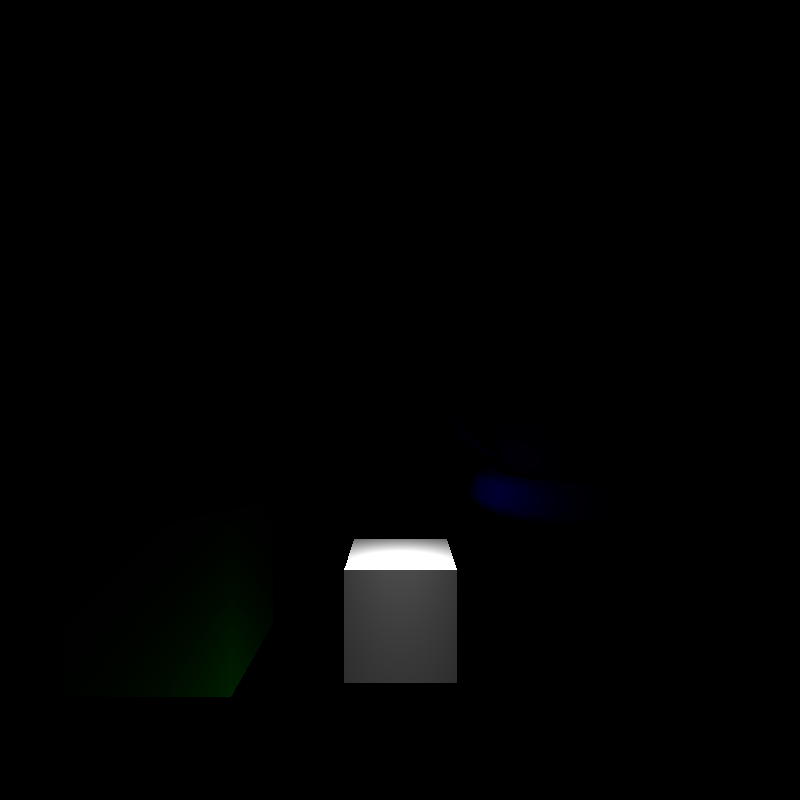
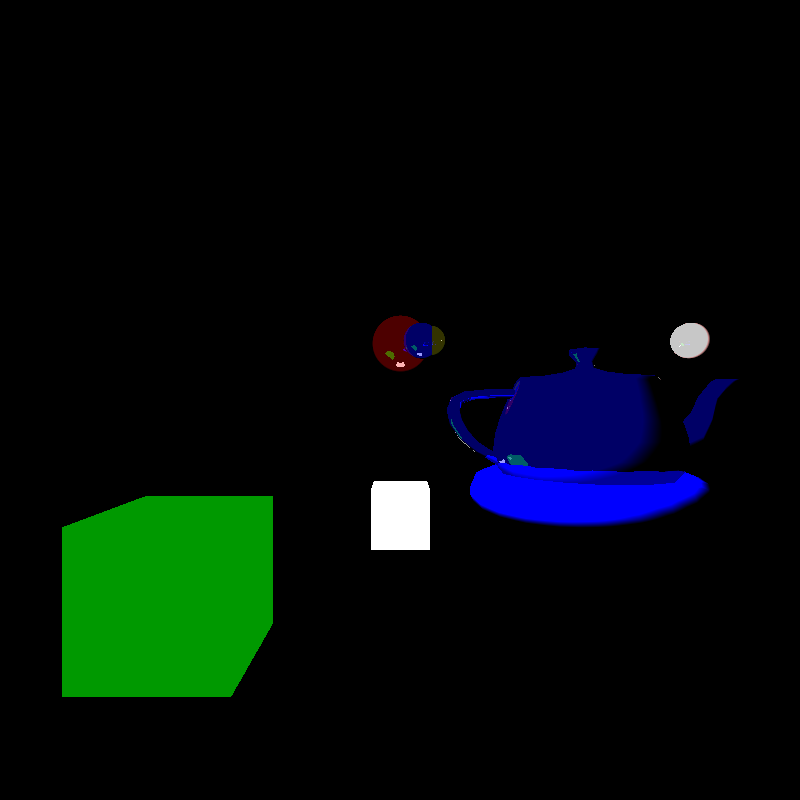
Reflection update

diff --git a/src/edu/up/isgc/cg/raytracer/Raytracer.java b/src/edu/up/isgc/cg/raytracer/Raytracer.java
@@ -33,26 +33,27 @@ public class Raytracer {
 
         Scene scene02 = new Scene();
         scene02.setCamera(new Camera(new Vector3D(0, 0, -4), 60, 60, 800, 800, 0.6, 50.0));
-        //scene02.addLight(new PointLight(new Vector3D(0.0, 1.0, 0.0),Color.WHITE, 0.8));
-        scene02.addLight(new SpotLight(
-                new Vector3D(0, 1.0, 0),          // Position (above the scene)
-                new Vector3D(0, -1, 0.2),        // Direction (slightly angled forward)
-                Color.WHITE,                     // Light color
-                1.5,                             // Intensity
-                Math.toRadians(60),              // 30-degree cutoff angle (converted to radians)
-                15                               // Falloff exponent
+        scene02.addLight(new PointLight(new Vector3D(0.0, 1.0, 0.0),Color.WHITE, 5));
+        //scene02.addLight(new PointLight(new Vector3D(0.0, 0.0, 0.0),Color.WHITE, 0.8));
+        /*scene02.addLight(new SpotLight(
+                new Vector3D(0, 1.0, 0),
+                new Vector3D(0, -1, 0.2),
+                Color.WHITE,
+                10,
+                Math.toRadians(160),
+                15
         ));
         /*scene02.addLight(new DirectionalLight(new Vector3D(0.0, 0.0, 1.0), Color.WHITE, 0.8));
         scene02.addLight(new DirectionalLight(new Vector3D(0.0, -0.1, 0.1), Color.WHITE, 0.2));
         scene02.addLight(new DirectionalLight(new Vector3D(-0.2, -0.1, 0.0), Color.WHITE, 0.2));*/
-        scene02.addObject(new Sphere(new Vector3D(0.0, 1.0, 5.0), 0.5, Color.RED));
-        scene02.addObject(new Sphere(new Vector3D(0.5, 1.0, 4.5), 0.25, new Color(200, 255, 0)));
-        scene02.addObject(new Sphere(new Vector3D(0.35, 1.0, 4.5), 0.3, Color.BLUE));
-        scene02.addObject(new Sphere(new Vector3D(4.85, 1.0, 4.5), 0.3, Color.PINK));
+        scene02.addObject(new Sphere(new Vector3D(0.0, 1.0, 5.0), 0.5, Color.RED, 0.7));
+        scene02.addObject(new Sphere(new Vector3D(0.5, 1.0, 4.5), 0.25, new Color(200, 255, 0), 0.8));
+        scene02.addObject(new Sphere(new Vector3D(0.35, 1.0, 4.5), 0.3, Color.BLUE, 0.6));
+        scene02.addObject(new Sphere(new Vector3D(4.85, 1.0, 4.5), 0.3, Color.PINK, 0.22));
         scene02.addObject(new Sphere(new Vector3D(2.85, 1.0, 304.5), 0.5, Color.BLUE));
-        scene02.addObject(OBJReader.getModel3D("Cube.obj", new Vector3D(0f, -2.5, 1.0), Color.WHITE));
-        scene02.addObject(OBJReader.getModel3D("CubeQuad.obj", new Vector3D(-3.0, -2.5, 3.0), Color.GREEN));
-        scene02.addObject(OBJReader.getModel3D("SmallTeapot.obj", new Vector3D(2.0, -1.0, 1.5), Color.BLUE));
+        scene02.addObject(OBJReader.getModel3D("Cube.obj", new Vector3D(0f, -2.5, 5), Color.WHITE));
+        scene02.addObject(OBJReader.getModel3D("CubeQuad.obj", new Vector3D(-3.0, -2.5, 3.0), Color.GREEN, 0.4));
+        scene02.addObject(OBJReader.getModel3D("SmallTeapot.obj", new Vector3D(2.0, -1.0, 1.5), Color.BLUE, 0.6));
         scene02.addObject(OBJReader.getModel3D("Ring.obj", new Vector3D(2.0, -1.0, 1.5), Color.BLUE));
 
         BufferedImage image = raytrace(scene02);
@@ -82,36 +83,88 @@ public class Raytracer {
                 double z = posRaytrace[i][j].getZ() + pos.getZ();
 
                 Ray ray = new Ray(mainCamera.getPosition(), new Vector3D(x, y, z));
-                Intersection closestIntersection = raycast(ray, objects, null,
-                        new double[]{cameraZ + nearFarPlanes[0], cameraZ + nearFarPlanes[1]});
-
-                Color pixelColor = Color.BLACK;
-                if (closestIntersection != null) {
-                    Color objColor = closestIntersection.getObject().getColor();
-
-                    for (Light light : lights) {
-                        double nDotL = light.getNDotL(closestIntersection);
-                        Color lightColor = light.getColor();
-                        double intensity = light.getIntensity() * nDotL;
-
-                        double[] lightColors = new double[]{lightColor.getRed() / 255.0, lightColor.getGreen() / 255.0, lightColor.getBlue() / 255.0};
-                        double[] objColors = new double[]{objColor.getRed() / 255.0, objColor.getGreen() / 255.0, objColor.getBlue() / 255.0};
-                        for (int colorIndex = 0; colorIndex < objColors.length; colorIndex++) {
-                            objColors[colorIndex] *= intensity * lightColors[colorIndex];
-                        }
-
-                        Color diffuse = new Color((float) Math.clamp(objColors[0], 0.0, 1.0),
-                                (float) Math.clamp(objColors[1], 0.0, 1.0),
-                                (float) Math.clamp(objColors[2], 0.0, 1.0));
-
-                        pixelColor = addColor(pixelColor, diffuse);
-                    }
-                }
+                Color pixelColor = traceRay(ray, objects, lights, new double[]{cameraZ + nearFarPlanes[0], cameraZ + nearFarPlanes[1]}, 0, null);
                 image.setRGB(i, j, pixelColor.getRGB());
             }
         }
 
         return image;
+    }
+
+    private static Color traceRay(Ray ray, List<Object3D> objects, List<Light> lights, double[] clippingPlanes, int depth, Object3D caster) {
+        final int MAX_REFLECTIONS = 5;
+        if (depth > MAX_REFLECTIONS) {
+            return Color.BLACK;
+        }
+
+        Intersection closestIntersection = raycast(ray, objects, caster, clippingPlanes);
+        if (closestIntersection == null) {
+            return Color.BLACK;
+        }
+
+        Color objColor = closestIntersection.getObject().getColor();
+        Color diffuseColor = Color.BLACK;
+
+        for (Light light : lights) {
+            double nDotL = light.getNDotL(closestIntersection);
+            Color lightColor = light.getColor();
+            double intensity = light.getIntensity() * nDotL;
+
+            double[] lightColors = new double[]{
+                    lightColor.getRed() / 255.0,
+                    lightColor.getGreen() / 255.0,
+                    lightColor.getBlue() / 255.0
+            };
+            double[] objColors = new double[]{
+                    objColor.getRed() / 255.0,
+                    objColor.getGreen() / 255.0,
+                    objColor.getBlue() / 255.0
+            };
+
+            for (int colorIndex = 0; colorIndex < objColors.length; colorIndex++) {
+                objColors[colorIndex] *= intensity * lightColors[colorIndex];
+            }
+
+            Color diffuse = new Color(
+                    (float) Math.clamp(objColors[0], 0.0, 1.0),
+                    (float) Math.clamp(objColors[1], 0.0, 1.0),
+                    (float) Math.clamp(objColors[2], 0.0, 1.0)
+            );
+
+            diffuseColor = addColor(diffuseColor, diffuse);
+        }
+
+        double reflectivity = closestIntersection.getObject().getReflectivity();
+        Color reflectedColor = Color.BLACK;
+
+        if (reflectivity > 0) {
+            Vector3D N = closestIntersection.getNormal();
+            Vector3D I = ray.getDirection();
+            double dot = Vector3D.dotProduct(I, N);
+            Vector3D R = Vector3D.substract(I, Vector3D.scalarMultiplication(N, 2 * dot));
+            R = Vector3D.normalize(R);
+
+            // Offset origin to prevent self-intersection
+            Vector3D offsetOrigin = Vector3D.add(closestIntersection.getPosition(), Vector3D.scalarMultiplication(N, 1e-4));
+            Ray reflectedRay = new Ray(offsetOrigin, R);
+
+            reflectedColor = traceRay(reflectedRay, objects, lights, null, depth + 1, closestIntersection.getObject());
+        }
+
+        Color diffusePart = multiplyColor(diffuseColor, (1 - reflectivity));
+        Color reflectedPart = multiplyColor(reflectedColor, reflectivity);
+
+        return addColor(diffusePart, reflectedPart);
+    }
+
+    public static Color multiplyColor(Color color, double factor) {
+        float red = (float) (color.getRed() / 255.0 * factor);
+        float green = (float) (color.getGreen() / 255.0 * factor);
+        float blue = (float) (color.getBlue() / 255.0 * factor);
+        red = (float) Math.clamp(red, 0.0, 1.0);
+        green = (float) Math.clamp(green, 0.0, 1.0);
+        blue = (float) Math.clamp(blue, 0.0, 1.0);
+        return new Color(red, green, blue);
     }
 
     public static Color addColor(Color original, Color otherColor) {

diff --git a/src/edu/up/isgc/cg/raytracer/tools/OBJReader.java b/src/edu/up/isgc/cg/raytracer/tools/OBJReader.java
@@ -170,4 +170,152 @@ public abstract class OBJReader {
         }
         return null;
     }
+
+    public static Model3D getModel3D(String path, Vector3D origin, Color color, double reflectivity) {
+        try {
+            BufferedReader reader = new BufferedReader(new FileReader(path));
+
+            List<Triangle> triangles = new ArrayList<>();
+            List<Vector3D> vertices = new ArrayList<>();
+            List<Vector3D> normals = new ArrayList<>();
+            String line;
+            int defaultSmoothingGroup = -1;
+            int smoothingGroup = defaultSmoothingGroup;
+            Map<Integer, List<Triangle>> smoothingMap = new HashMap<>();
+
+            while ((line = reader.readLine()) != null) {
+                if (line.startsWith("v ") || line.startsWith("vn ")) {
+                    String[] vertexComponents = line.split("(\\s)+");
+                    if (vertexComponents.length >= 4) {
+                        double x = Double.parseDouble(vertexComponents[1]);
+                        double y = Double.parseDouble(vertexComponents[2]);
+                        double z = Double.parseDouble(vertexComponents[3]);
+                        Vector3D vec = new Vector3D(x, y, z);
+                        if (line.startsWith("v ")) {
+                            vertices.add(vec);
+                        } else {
+                            normals.add(vec);
+                        }
+                    }
+                } else if (line.startsWith("f ")) {
+                    String[] faceComponents = line.split("(\\s)+");
+                    List<Integer> faceVertex = new ArrayList<>();
+                    List<Integer> faceNormals = new ArrayList<>();
+
+                    for (int i = 1; i < faceComponents.length; i++) {
+                        String[] infoVertex = faceComponents[i].split("/");
+                        if (infoVertex.length >= 1) {
+                            int vertexIndex = Integer.parseInt(infoVertex[0]);
+                            faceVertex.add(vertexIndex);
+                        }
+                        if (infoVertex.length >= 3) {
+                            int normalIndex = Integer.parseInt(infoVertex[2]);
+                            faceNormals.add(normalIndex);
+                        }
+                    }
+
+                    if (faceVertex.size() >= 3) {
+                        Vector3D[] triangleVertices = new Vector3D[faceVertex.size()];
+                        Vector3D[] triangleNormals = new Vector3D[faceNormals.size()];
+
+                        for (int i = 0; i < faceVertex.size(); i++) {
+                            triangleVertices[i] = vertices.get(faceVertex.get(i) - 1);
+                        }
+
+                        Vector3D[] arrangedTriangleVertices = null;
+                        Vector3D[] arrangedTriangleNormals = null;
+                        if(normals.size() > 0 && !faceNormals.isEmpty()) {
+                            for(int i = 0; i < faceNormals.size(); i++) {
+                                triangleNormals[i] = normals.get(faceNormals.get(i) - 1);
+                            }
+                            arrangedTriangleNormals = new Vector3D[]{triangleNormals[1], triangleNormals[0], triangleNormals[2]};
+                        }
+                        arrangedTriangleVertices = new Vector3D[]{triangleVertices[1], triangleVertices[0], triangleVertices[2]};
+
+                        Triangle tmpTriangle = new Triangle(arrangedTriangleVertices, arrangedTriangleNormals);
+                        triangles.add(tmpTriangle);
+
+                        List<Triangle> trianglesInMap = smoothingMap.get(smoothingGroup);
+                        if(trianglesInMap == null) {
+                            trianglesInMap = new ArrayList<>();
+                        }
+                        trianglesInMap.add(tmpTriangle);
+
+                        if (faceVertex.size() == 4) {
+                            arrangedTriangleVertices = new Vector3D[]{triangleVertices[2], triangleVertices[0], triangleVertices[3]};
+                            if(arrangedTriangleNormals != null){
+                                arrangedTriangleNormals = new Vector3D[]{triangleNormals[2], triangleNormals[0], triangleNormals[3]};
+                            }
+                            tmpTriangle = new Triangle(arrangedTriangleVertices, arrangedTriangleNormals);
+                            triangles.add(tmpTriangle);
+                            trianglesInMap.add(tmpTriangle);
+                        }
+
+                        if(smoothingGroup != defaultSmoothingGroup) {
+                            smoothingMap.put(smoothingGroup, trianglesInMap);
+                        }
+                    }
+                } else if(line.startsWith("s ")) {
+                    String[] smoothingComponents = line.split("(\\s)+");
+                    if(smoothingComponents.length > 1) {
+                        if(smoothingComponents[1].equals("off")){
+                            smoothingGroup = defaultSmoothingGroup;
+                        } else {
+                            try {
+                                smoothingGroup = Integer.parseInt(smoothingComponents[1]);
+                            } catch (NumberFormatException nfe){
+                                smoothingGroup = defaultSmoothingGroup;
+                            }
+                        }
+                    }
+                }
+            }
+            reader.close();
+
+            class NormalPair{
+                Vector3D normal;
+                int count;
+
+                public NormalPair() {
+                    normal = Vector3D.ZERO();
+                    count = 0;
+                }
+            }
+
+            //Smooth vertices normals
+            for (Integer key : smoothingMap.keySet()) {
+                Map<Vector3D, NormalPair> vertexMap = new HashMap<>();
+                List<Triangle> trianglesInMap = smoothingMap.get(key);
+                for (Triangle triangle : trianglesInMap) {
+                    Vector3D[] triangleVertices = triangle.getVertices();
+                    Vector3D[] triangleNormals = triangle.getNormals();
+                    for (int i = 0; i < triangleVertices.length; i++) {
+                        NormalPair normalsVertex = vertexMap.get(triangleVertices[i]);
+                        if (normalsVertex == null) {
+                            normalsVertex = new NormalPair();
+                        }
+                        if (triangleNormals.length > 0 && i < triangleNormals.length) {
+                            normalsVertex.normal = Vector3D.add(normalsVertex.normal, triangleNormals[i]);
+                            normalsVertex.count++;
+                        }
+                        vertexMap.put(triangleVertices[i], normalsVertex);
+                    }
+                }
+                for (Triangle triangle : trianglesInMap) {
+                    Vector3D[] triangleVertices = triangle.getVertices();
+                    Vector3D[] triangleNormals = triangle.getNormals();
+                    for (int i = 0; i < triangleVertices.length; i++) {
+                        NormalPair normalsVertex = vertexMap.get(triangleVertices[i]);
+                        triangleNormals[i] = Vector3D.scalarMultiplication(normalsVertex.normal, 1.0 / (double) normalsVertex.count);
+                    }
+                    triangle.setNormals(triangleNormals[0], triangleNormals[1], triangleNormals[2]);
+                }
+            }
+
+            return new Model3D(origin, triangles.toArray(new Triangle[triangles.size()]), color, reflectivity);
+        } catch (IOException e) {
+            System.err.println(e.toString());
+        }
+        return null;
+    }
 }

diff --git a/src/edu/up/isgc/cg/raytracer/objects/Model3D.java b/src/edu/up/isgc/cg/raytracer/objects/Model3D.java
@@ -18,6 +18,11 @@ public class Model3D extends Object3D{
         setTriangles(triangles);
     }
 
+    public Model3D(Vector3D position, Triangle[] triangles, Color color, double reflectivity) {
+        super(position, color, reflectivity);
+        setTriangles(triangles);
+    }
+
     public List<Triangle> getTriangles() {
         return triangles;
     }
